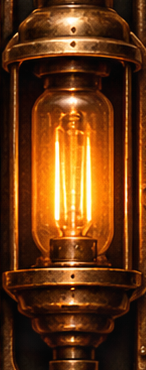
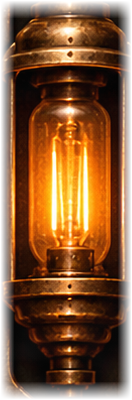
geq paneli: lambalar lamba ekseninde yeniden kesildi (yumusak kenar) ve simetrik yerlesti; EQ kapaliyken lambalar soner; panel yalniz EQ dugmesiyle kapanir (disari tik/Esc kapatmaz); panel zemini opak

diff --git a/src/preload.js b/src/preload.js
@@ -1936,8 +1936,7 @@ if (isAutotunePage()) {
     ui.append(box, pan);
     const setOpen = (o) => { pan.classList.toggle('open', o); tab.textContent = o ? 'EQ \u25B2' : 'EQ \u25BC'; tab.setAttribute('aria-label', o ? 'Close the graphic equalizer panel' : 'Open the graphic equalizer panel'); };
     tab.addEventListener('click', () => setOpen(!pan.classList.contains('open')));
-    window.addEventListener('pointerdown', (e) => { if (pan.classList.contains('open') && !e.composedPath().some((n) => n === pan || n === box)) setOpen(false); }, true);
-    window.addEventListener('keydown', (e) => { if (e.key === 'Escape') setOpen(false); });
+    // the panel stays open until the EQ button is pressed again (no outside-click / Esc close)
     const draw = () => {
       for (const el of [box, pan]) { el.classList.toggle('off', !geqState.on); el.classList.toggle('locked', captureActive); }
       for (const pw of pwEls) pw.setAttribute('aria-pressed', String(geqState.on));
@@ -2452,12 +2451,14 @@ if (isAutotunePage()) {
     .geq.locked .geqtab { opacity: 1; pointer-events: auto; filter: none; }
     /* fold-down full-size panel (same look as the reference artwork) */
     .geqpan { -webkit-app-region: no-drag; position: fixed; top: 104px; z-index: 2147483641; box-sizing: border-box; display: none;
-      border: 18px solid transparent; border-image: ${T('sk-geq-frame.png')} 46 / 18px stretch; background: radial-gradient(ellipse at 50% 20%, #ff8a1f1a, transparent 65%), #0d0907f2; background-clip: padding-box; box-shadow: 0 10px 28px #000e; }
+      border: 18px solid transparent; border-image: ${T('sk-geq-frame.png')} 46 / 18px stretch; background: radial-gradient(ellipse at 50% 20%, #ff8a1f1a, transparent 65%), #0d0907; background-clip: padding-box; box-shadow: 0 10px 28px #000e; }
     .geqpan.open { display: block; animation: geqdrop .18s ease-out; }
     @keyframes geqdrop { from { opacity: 0; transform: translateY(-10px); } to { opacity: 1; transform: none; } }
     .geqtitle { position: absolute; left: 50%; top: -22px; width: 54%; aspect-ratio: 770 / 96; transform: translateX(-50%); background: ${T('sk-geq-title.png')} center / 100% 100% no-repeat; filter: drop-shadow(0 3px 4px #000c); }
-    .geqlamp { position: absolute; top: 16%; width: 9%; height: 58%; background: center / contain no-repeat; animation: poc-lamp 4.7s linear infinite; filter: drop-shadow(0 0 10px #ff9a3a88); }
-    .geqlamp.l { left: -4px; background-image: ${T('sk-geq-lamp-l.png')}; } .geqlamp.r { right: -4px; background-image: ${T('sk-geq-lamp-r.png')}; animation-delay: -1.9s; }
+    /* lamps centred in the side gutters (between the frame and the screen, 11 % each), mirrored; they go dark when the EQ is off */
+    .geqlamp { position: absolute; top: 15%; width: 8%; height: 60%; background: center / contain no-repeat; animation: poc-lamp 4.7s linear infinite; filter: drop-shadow(0 0 10px #ff9a3a88); transition: filter .25s; }
+    .geqpan.off .geqlamp { animation: none; filter: grayscale(1) brightness(.32); }
+    .geqlamp.l { left: 1.5%; background-image: ${T('sk-geq-lamp-l.png')}; } .geqlamp.r { right: 1.5%; background-image: ${T('sk-geq-lamp-r.png')}; animation-delay: -1.9s; }
     @keyframes poc-lamp { 0%, 40%, 44%, 100% { opacity: 1; } 41% { opacity: .55; } 42% { opacity: .95; } 43% { opacity: .7; } }
     .geqscr { position: absolute; left: 11%; right: 11%; top: 13%; bottom: 25%; border-radius: 8px; background: linear-gradient(#ffffff06, #00000040); box-shadow: inset 0 0 14px #000, 0 0 0 1px #6a4a26, 0 0 0 3px #1a0f08; }
     .geqgrid { position: absolute; left: 34px; right: 34px; top: calc(22px + 13px); bottom: 21px; pointer-events: none;
